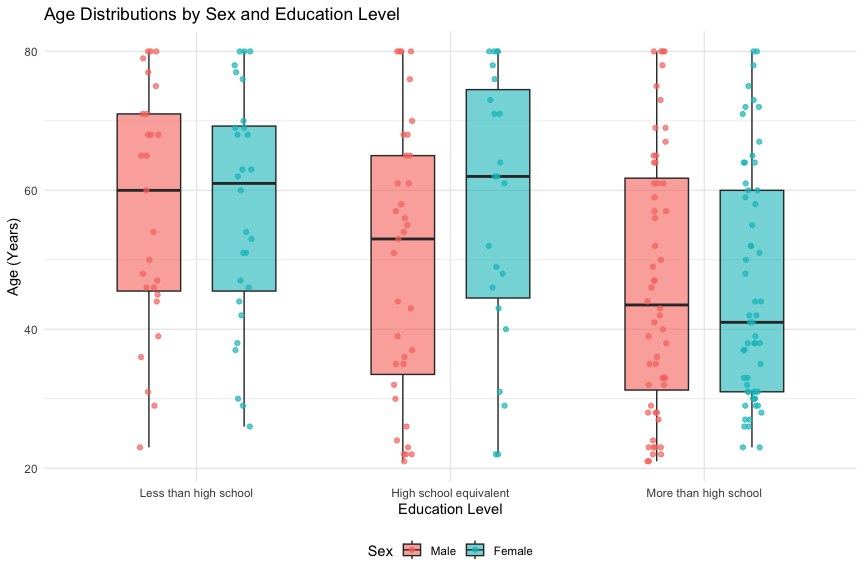
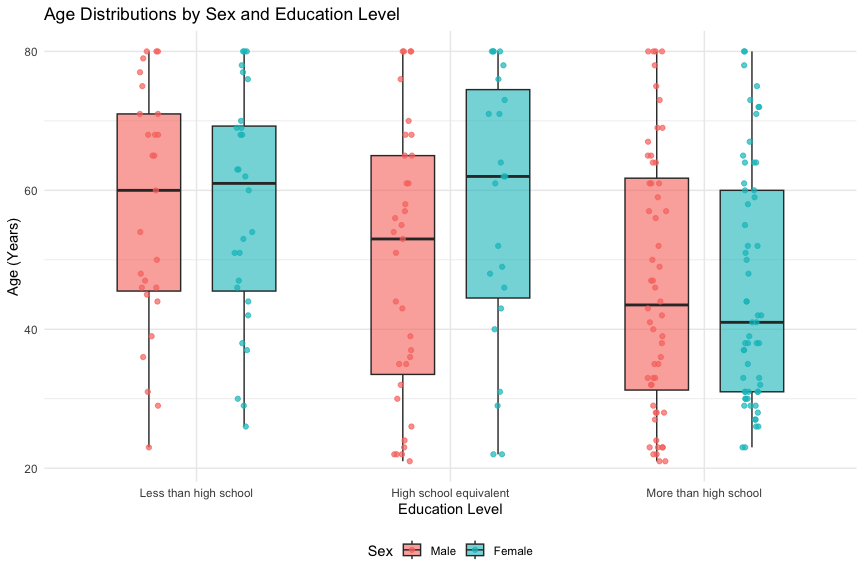
Problem3

diff --git a/p8105_hw3_zc2961.md b/p8105_hw3_zc2961.md
@@ -420,3 +420,81 @@ dataset contains 99,485 rides and 9 variables: `ride_id`,
 records, `start_station_name` is missing in 43 rides and
 `end_station_name` is missing in 207 rides, while all other variables
 are complete.
+
+``` r
+rides_summary_table =
+  citibike_df |>
+  count(year, month, member_casual) |>
+  pivot_wider(
+    names_from = member_casual,
+    values_from = n
+  ) |>
+  mutate(Total = Casual + Member)
+
+pct_jul20 = rides_summary_table |> filter(year == "2020", month == "July") |> mutate(pct = Member / Total * 100) |> pull(pct)
+pct_jan20 = rides_summary_table |> filter(year == "2020", month == "January") |> mutate(pct = Member / Total * 100) |> pull(pct)
+
+cas_jan20 = rides_summary_table |> filter(year == "2020", month == "January") |> pull(Casual)
+cas_jul20 = rides_summary_table |> filter(year == "2020", month == "July") |> pull(Casual)
+cas_jan24 = rides_summary_table |> filter(year == "2024", month == "January") |> pull(Casual)
+cas_jul24 = rides_summary_table |> filter(year == "2024", month == "July") |> pull(Casual)
+
+kable(
+  rides_summary_table,
+  col.names = c("Year", "Month", "Casual Riders", "Citi Bike Members", "Total Rides"),
+  format.args = list(big.mark = ","),
+  caption = "Total Number of Citi Bike Rides by Year, Month, and Membership Status"
+)
+```
+
+| Year | Month   | Casual Riders | Citi Bike Members | Total Rides |
+|:-----|:--------|--------------:|------------------:|------------:|
+| 2020 | January |           984 |            11,436 |      12,420 |
+| 2020 | July    |         5,637 |            15,411 |      21,048 |
+| 2024 | January |         2,108 |            16,753 |      18,861 |
+| 2024 | July    |        10,894 |            36,262 |      47,156 |
+
+Total Number of Citi Bike Rides by Year, Month, and Membership Status
+
+Ridership expanded substantially between 2020 and 2024 and exhibits
+strong seasonal patterns: July ride counts are roughly double to triple
+those in January within the same year. Citi Bike members account for the
+clear majority of rides in every period (ranging from 73.2% in July 2020
+to 92.1% in January 2020), while casual ridership surges much more
+dramatically during warm summer months (growing from 984 rides in
+January 2020 to 5,637 in July 2020, and from 2,108 in January 2024 to
+10,894 in July 2024).
+
+``` r
+top5_july2024_stations =
+  citibike_df |>
+  filter(year == "2024", month == "July", !is.na(start_station_name)) |>
+  count(start_station_name, name = "n_rides", sort = TRUE) |>
+  slice_head(n = 5)
+
+station_strings = sprintf("`%s` (%d rides)", top5_july2024_stations$start_station_name, top5_july2024_stations$n_rides)
+
+top5_stations_text = paste0(paste(station_strings[1:4], collapse = ", "), ", and ", station_strings[5])
+
+kable(
+  top5_july2024_stations,
+  col.names = c("Starting Station Name", "Number of Rides"),
+  caption = "Top 5 Most Popular Starting Stations in July 2024"
+)
+```
+
+| Starting Station Name    | Number of Rides |
+|:-------------------------|----------------:|
+| Pier 61 at Chelsea Piers |             163 |
+| University Pl & E 14 St  |             155 |
+| W 21 St & 6 Ave          |             152 |
+| West St & Chambers St    |             150 |
+| W 31 St & 7 Ave          |             146 |
+
+Top 5 Most Popular Starting Stations in July 2024
+
+In July 2024, the five most popular starting stations are
+`Pier 61 at Chelsea Piers` (163 rides), `University Pl & E 14 St` (155
+rides), `W 21 St & 6 Ave` (152 rides), `West St & Chambers St` (150
+rides), and `W 31 St & 7 Ave` (146 rides), reflecting high demand along
+the Hudson River Greenway, major commercial corridors, and transit hubs.
